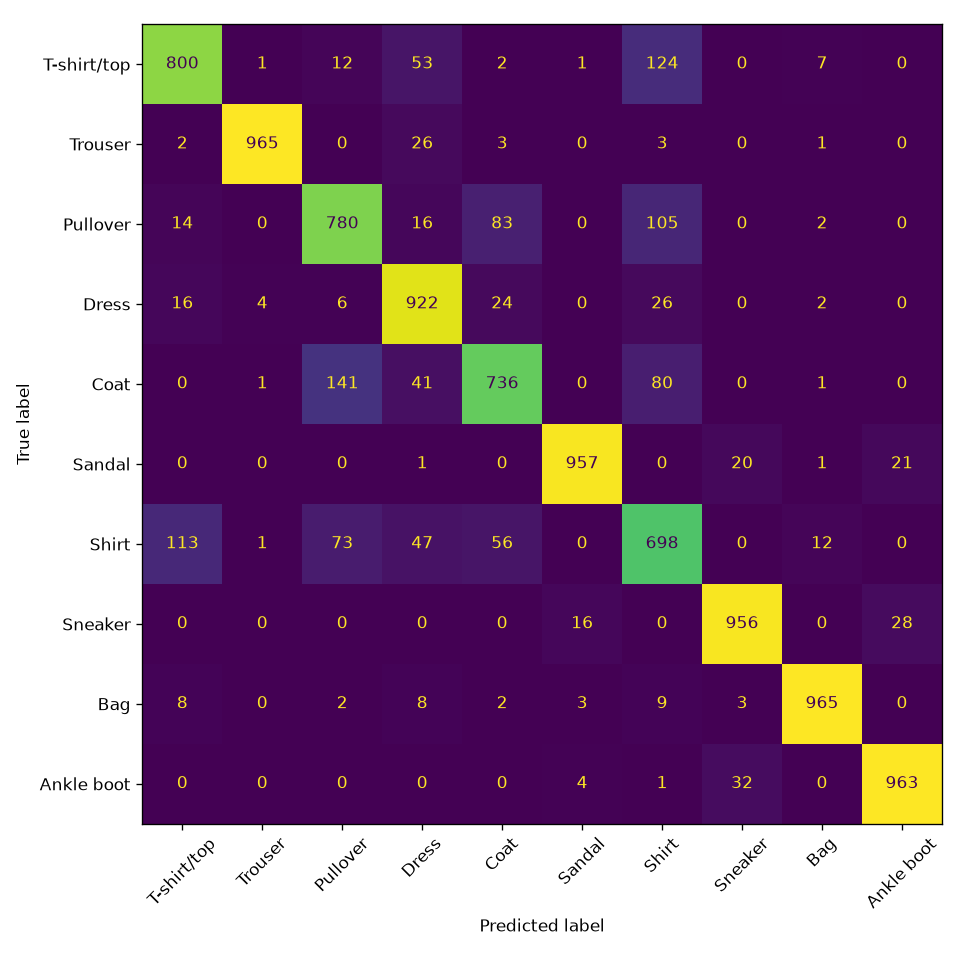
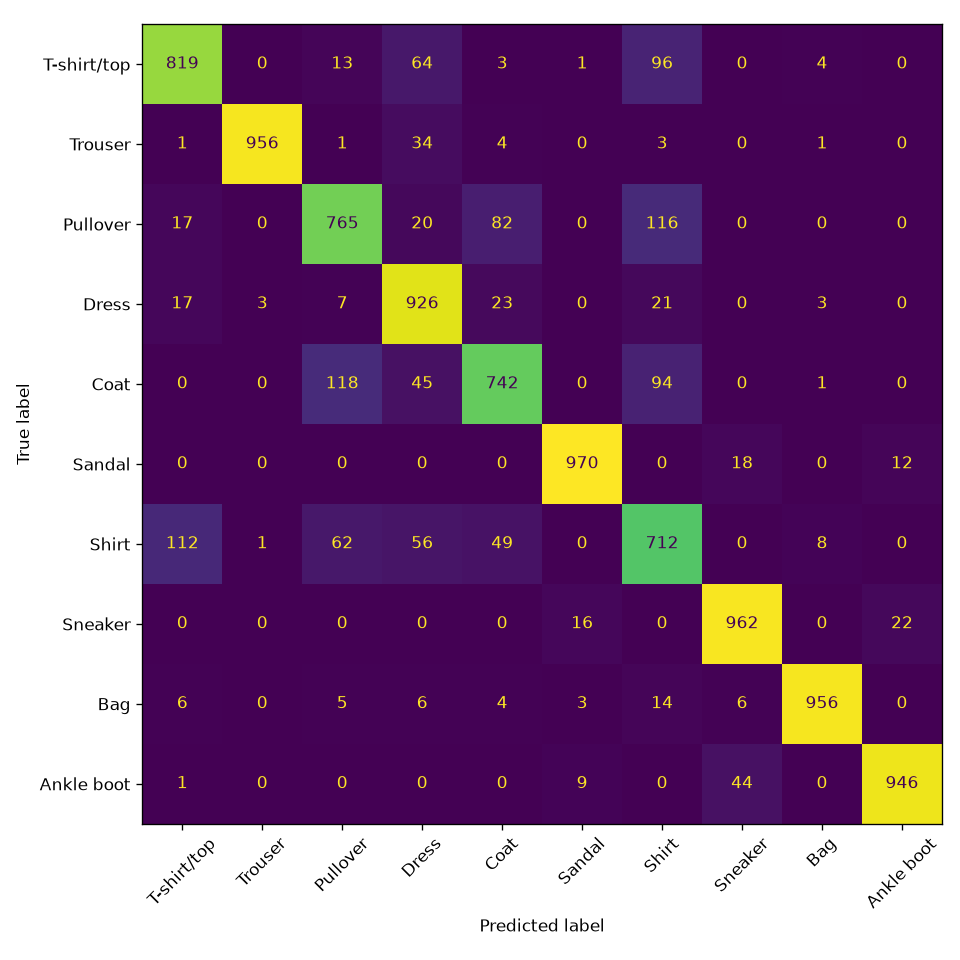
new commit

diff --git a/src/preprocess.py b/src/preprocess.py
@@ -8,7 +8,7 @@ from sklearn.model_selection import train_test_split
 RAW_DIR, OUT_DIR = "data/raw", "data/processed"
 
 def main():
-    with open("paramms.yaml") as f:
+    with open("params.yaml") as f:
         params = yaml.safe_load(f)["preprocess"]
     os.makedirs(OUT_DIR, exist_ok=True)
     train = np.load(f"{RAW_DIR}/train.npz")

diff --git a/src/train.py b/src/train.py
@@ -10,7 +10,7 @@ from tensorflow import keras
 DATA_DIR, MODEL_DIR = "data/processed", "models"
 
 def main():
-    with open("paramms.yaml") as f:
+    with open("params.yaml") as f:
         p = yaml.safe_load(f)["train"]
     tf.keras.utils.set_random_seed(p.get("seed", 42))
     os.makedirs(MODEL_DIR, exist_ok=True)
